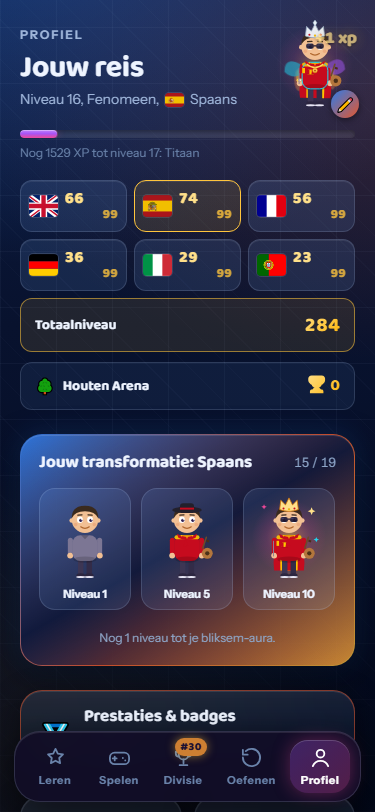
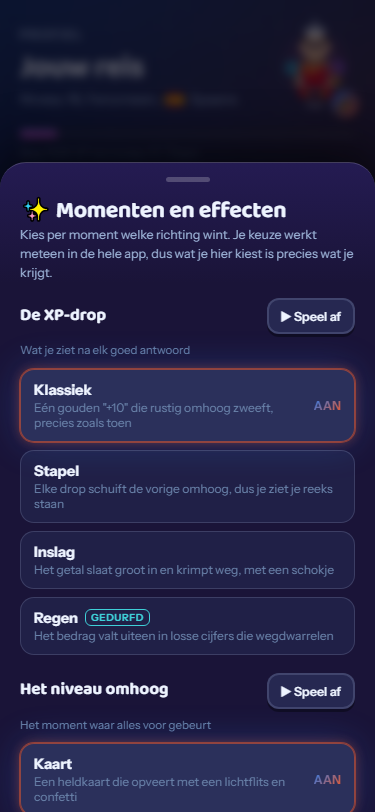
De XP-drop bewezen op de live link, en bijna een werkend effect gerepareerd
De proef meldde drie keer op rij dat de drop stilstond op blyelove.github.io.
Dat leek een echt verschil tussen ontwikkel- en productiebouw, en dus een
gebruiker die helemaal geen XP-drop ziet. Een losse meting ving hem
vervolgens midden in zijn vlucht: doorzichtigheid 0,66 en translateY van min
18. Er was niets stuk; mijn steekproef was te grof.

Een drop leeft 1,1 seconde. Drie monsters vielen op een tragere verbinding
allemaal op de startstand, en dan lijkt stilstand hetzelfde als een animatie
die nog moet beginnen. Nu twaalf monsters over ruim twee seconden, en dan
staat de hele vlucht er: 71, 44, 36, 31, 30, 30, 20, 15, 13, 12 pixels
terwijl de doorzichtigheid van 0,16 naar 1 loopt en weer uitdooft.

Wantrouw een reeks metingen die allemaal exact hetzelfde getal geeft.

Verder in deze ronde: punt 1d aangetoond door de RuneScape-curve zelf uit te
rekenen vanuit de opgeslagen XP en naast het scherm te leggen, zes van de zes
gelijk. En richtingen-proef.mjs legt de catalogus naast de tekencode: vijftien
richtingen, vier groepen, elke groep met een gedurfde, achter elke naam echte
code in plaats van een stille terugval op de standaard.

diff --git a/MASTERPROMPT.md b/MASTERPROMPT.md
@@ -434,6 +434,18 @@ Stoppen kan met `/loop stop` of door de cron-taak te verwijderen.
 
 ## Logboek
 
+- **14-08-2026, ronde 69** - **Punt 1a en 1d bewezen, en vijftien richtingen nagelopen op echte code.**
+
+  **1a, de XP-drop zweeft omhoog.** Nu met een echte baan, gemeten op de live link: top 71 naar 12 pixels terwijl de doorzichtigheid van 0,16 naar 1 loopt en weer uitdooft, op 17 pixels tekst en één tegelijk. Dus omhoog, zichtbaar, en subtiel.
+
+  **1d, niets rekent na.** `scripts/pijler-proef.mjs` rekent de RuneScape-curve zélf uit vanuit de opgeslagen XP en legt dat naast het scherm: 66, 74, 56, 36, 29, 23 tegenover exact dezelfde reeks. Zes van de zes gelijk, dus er loopt nergens een eigen teller mee. De tegels worden gelezen via hun aria-label, want dat draagt het niveau uit en is niet afhankelijk van opmaak.
+
+  **Punt 4, alle richtingen bestaan echt.** `scripts/richtingen-proef.mjs` legt de catalogus naast de tekencode: vijftien richtingen over vier groepen, elke groep met een gedurfde optie, en achter elke naam zit code in plaats van een stille terugval op de standaard. Welke richting wint is een keuze van de gebruiker, niet iets wat af te maken valt.
+
+  **LES: een te grove steekproef is net zo fout als een kapotte teller.** De drop leeft 1,1 seconde. Drie monsters vielen op een trage verbinding allemaal op de startstand, en de proef meldde drie keer op rij dat de drop stilstond op de live link terwijl hij het perfect deed. Bijna had ik een werkend effect "gerepareerd". Wat het redde was een losse meting die de drop midden in zijn vlucht ving (opacity 0,66, translateY min 18) en dus het tegendeel bewees. **Regel: bemonster een animatie dicht en lang genoeg om de hele vlucht te vangen, en wantrouw een reeks metingen die allemaal exact hetzelfde getal geven.**
+
+  **Open, en niet door mij te sluiten:** online matchmaking (punt 2d) wacht op een Supabase-project met sleutels van de gebruiker. Het schaduwduel is zo gebouwd dat de opname straks van een server komt in plaats van uit een link, dus dat is een aansluiting en geen herbouw.
+
 - **14-08-2026, ronde 68** - **De drie pijlers staan nu niet meer op papier maar in een meting, en dat legde twee echte gebreken in pijler 1 bloot.**
 
   **Gebrek 1: een mijlpaal was kleiner dan een gewoon niveau.** De mijlpaalkaart had meer padding, een groter cijfer en een grotere kop, en was tóch twaalf pixels kleiner, omdat de gewone kaart toevallig meer regels tekst droeg. Zo'n verschil zie je met het oog niet en met een liniaal meteen. Nu 252 tegen 229, met een gouden rand en gloed erbij.
